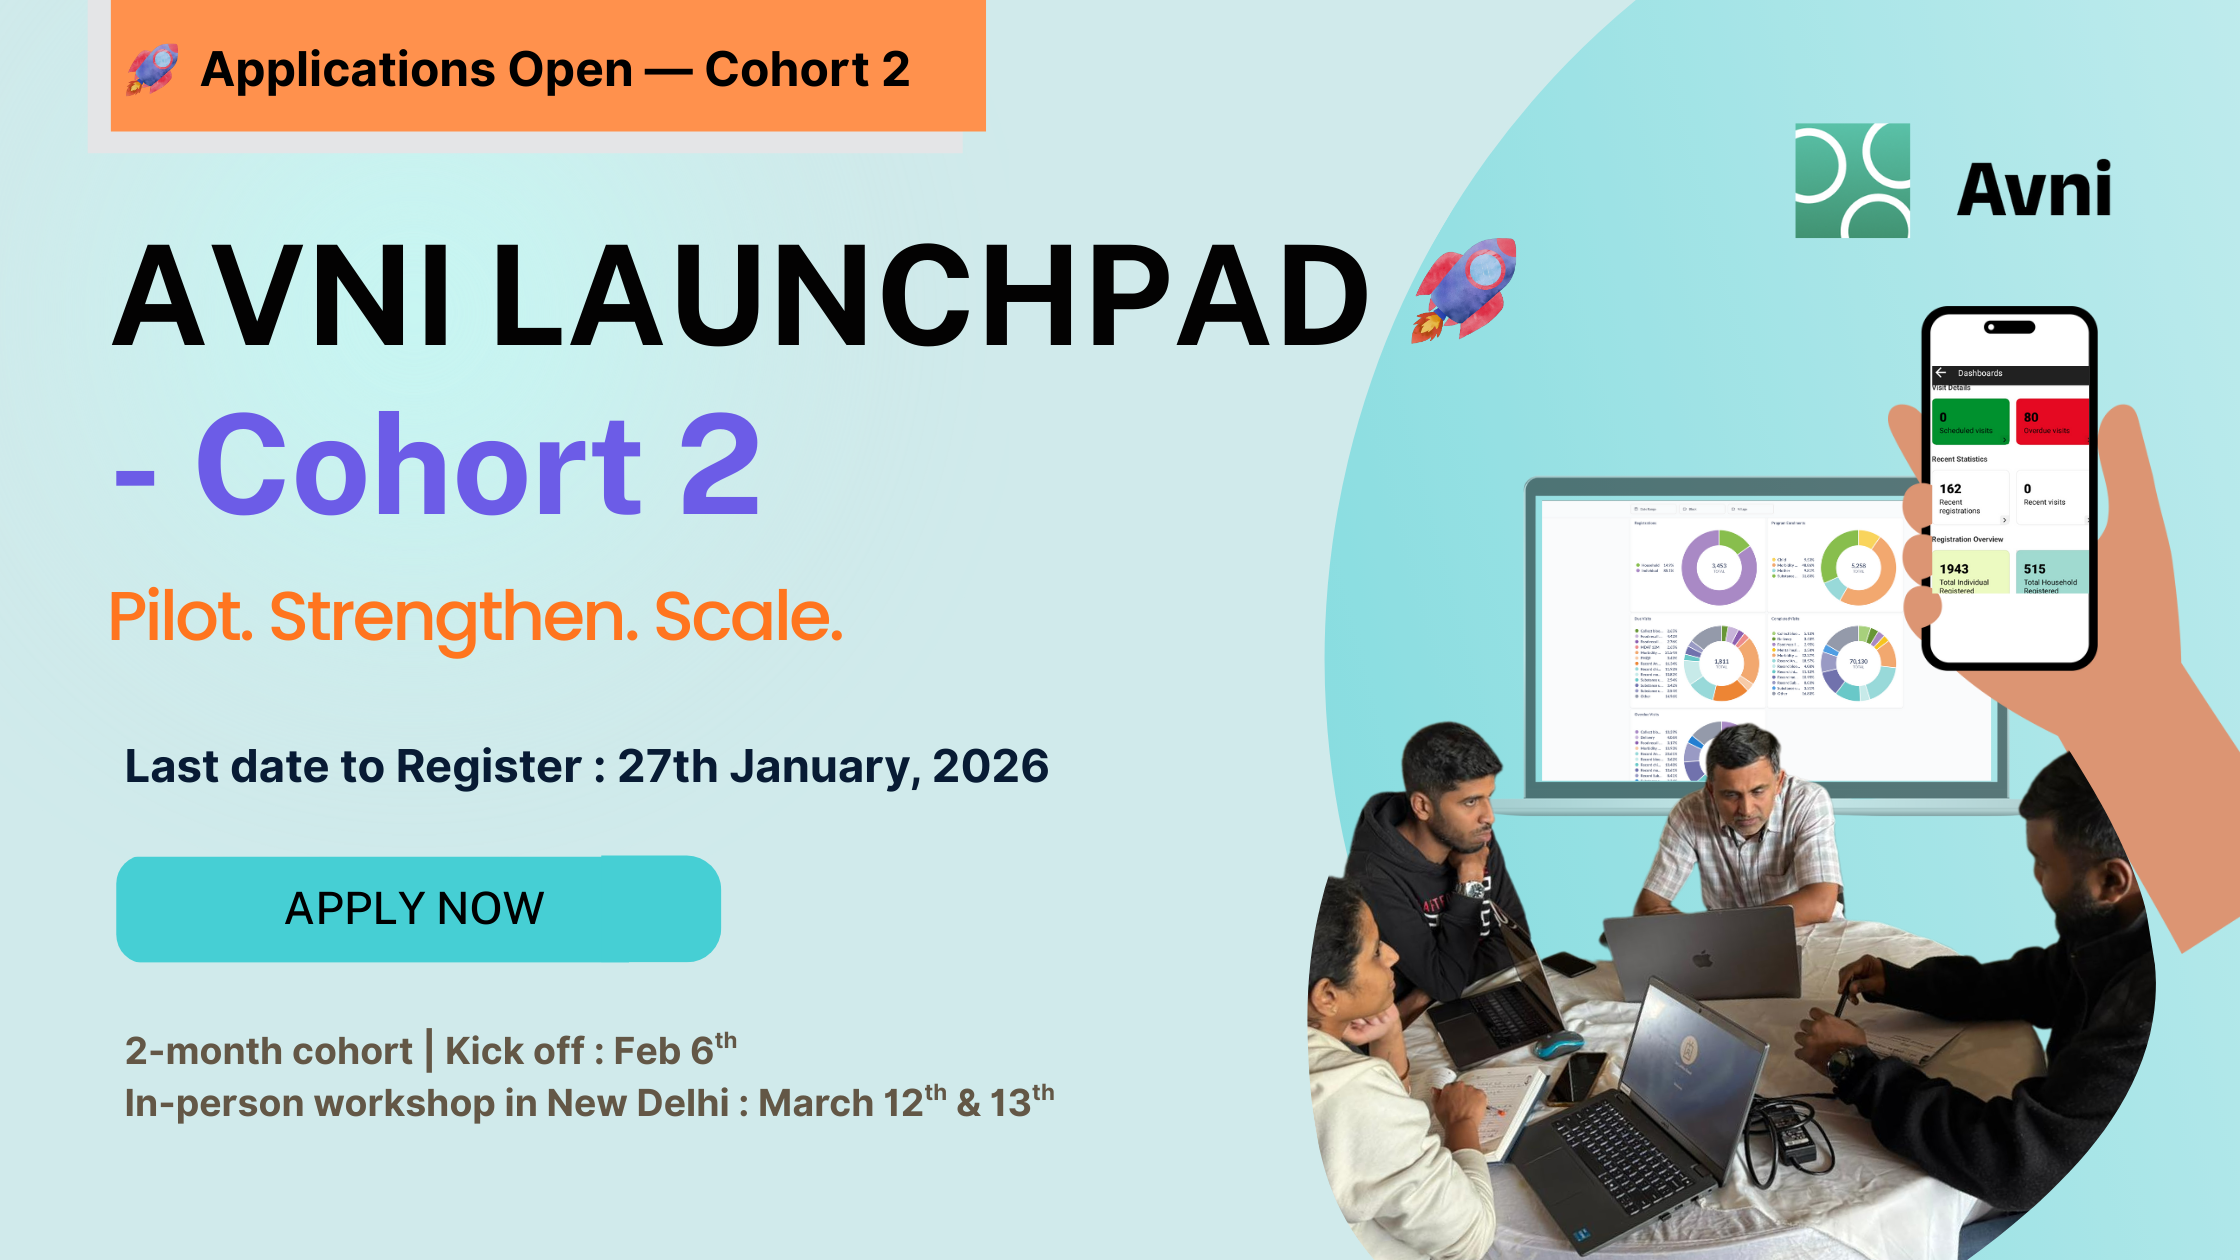
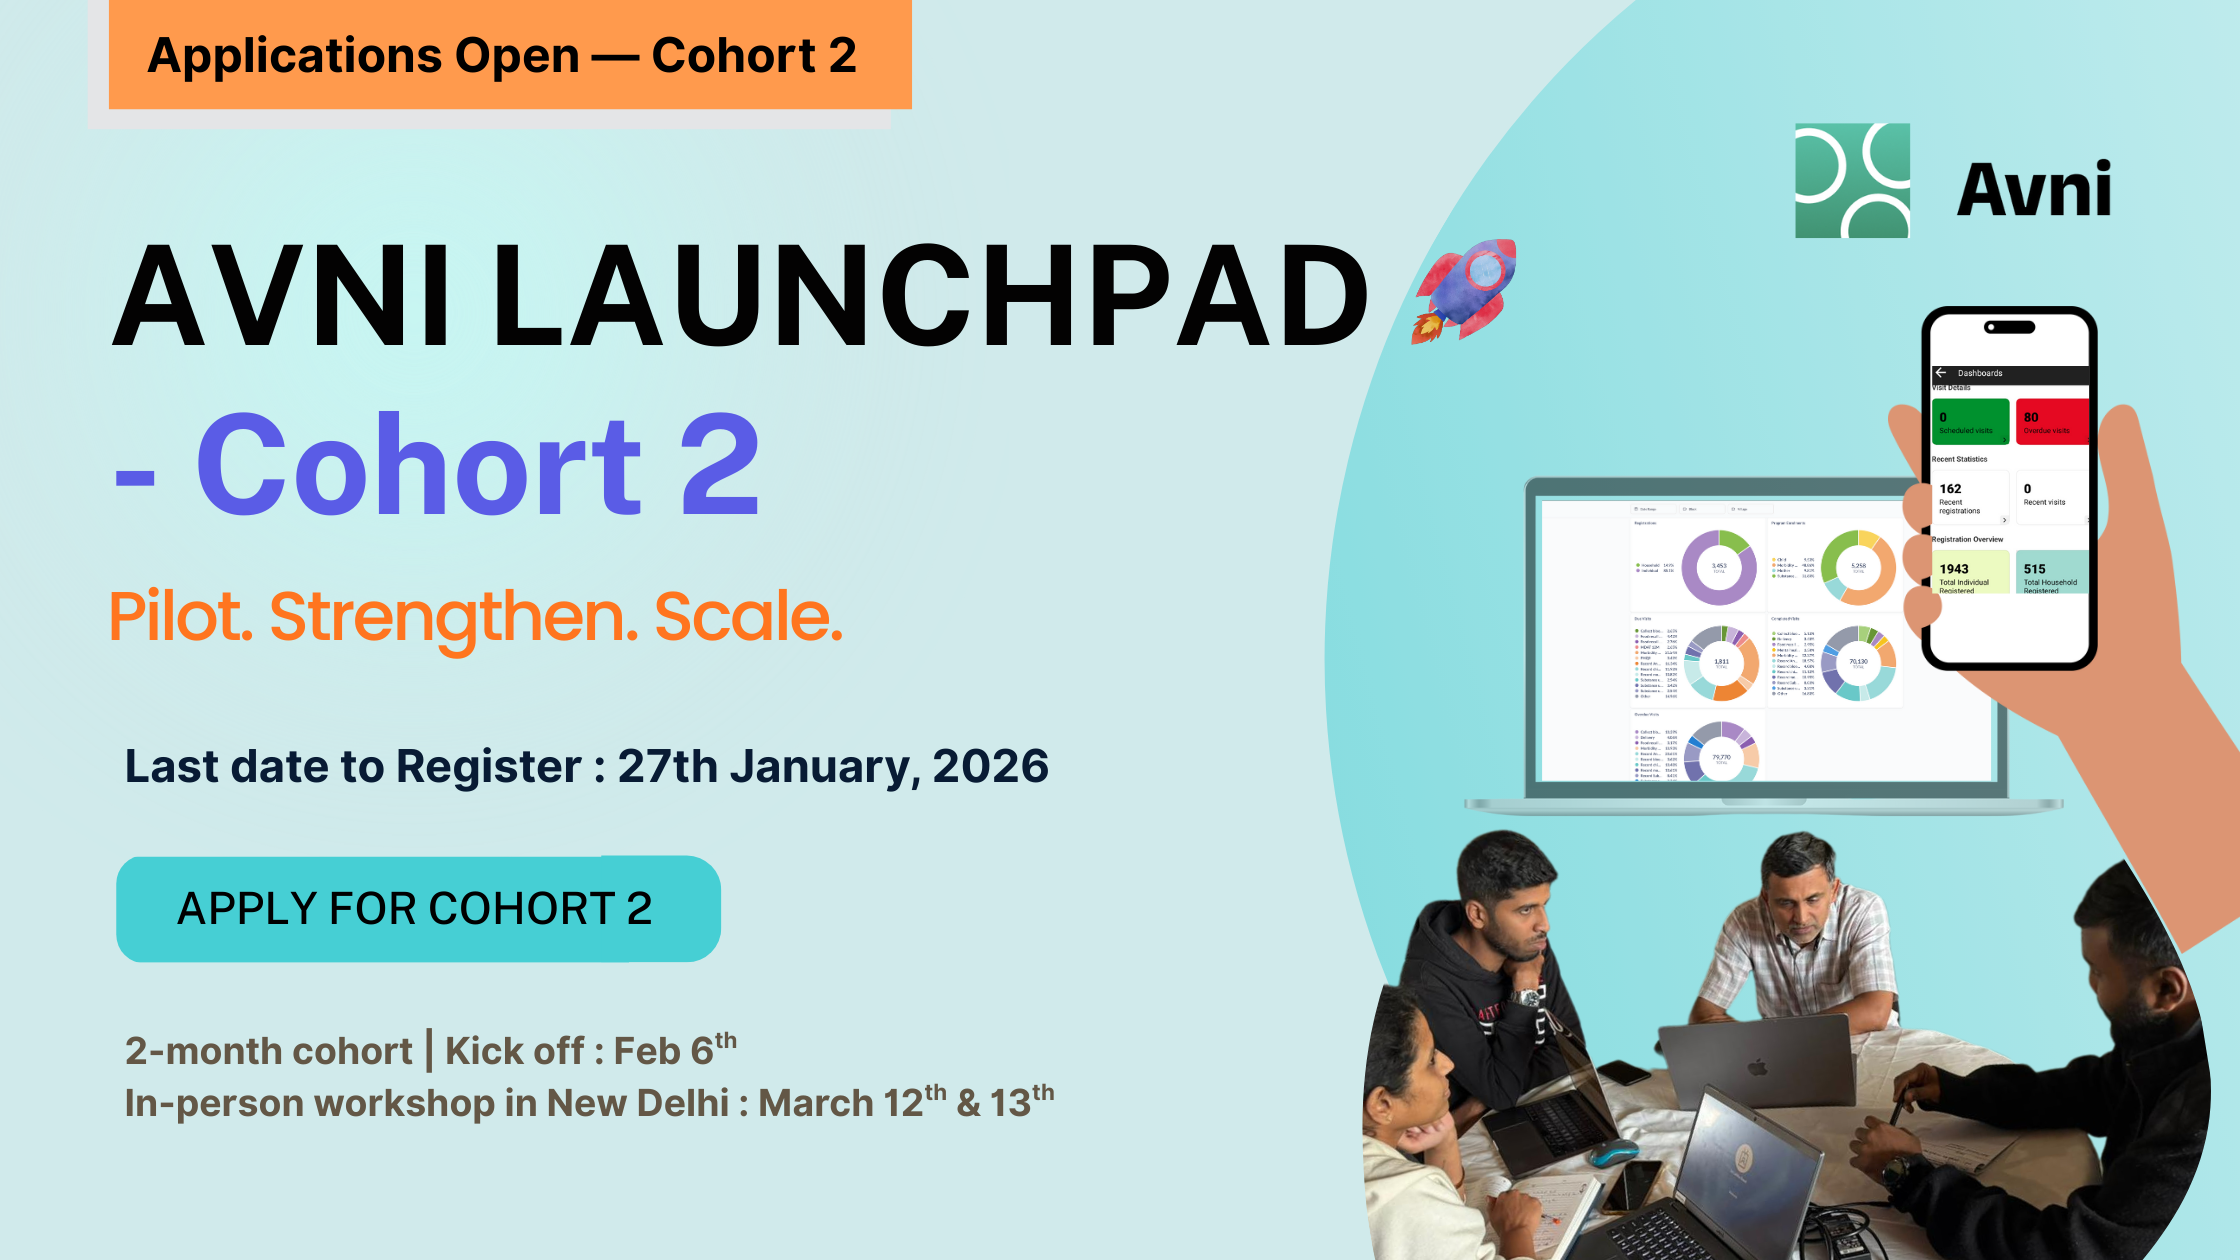
Avni Launchpad Cohort-2 v1.0+

diff --git a/src/pages/blog/2026-01-08-avni-launchpad-cohort-2-announcement.md b/src/pages/blog/2026-01-08-avni-launchpad-cohort-2-announcement.md
@@ -5,7 +5,7 @@ date: 2026-01-07T20:30:00.000Z
 author: Avni Team
 featuredpost: true
 description:
-featuredimage: /img/2025-10-30-avni-launchpad-announcement/launchpad_banner.png
+featuredimage: /img/2026-01-08-avni-launchpad-cohort-2-announcement/Avni Launchpad Cohort-2.png
 tags:
 ---
 
@@ -63,7 +63,7 @@ You are an NGO who has
 <br>
 
 #### Key Dates
-![](/img/2025-10-30-avni-launchpad-announcement/launchpad_timeline.png)
+![](/img/2026-01-08-avni-launchpad-cohort-2-announcement/launchpad_timeline.png)
 
 | Week       | Date            | Event                                       |
 |------------|-----------------|---------------------------------------------|
